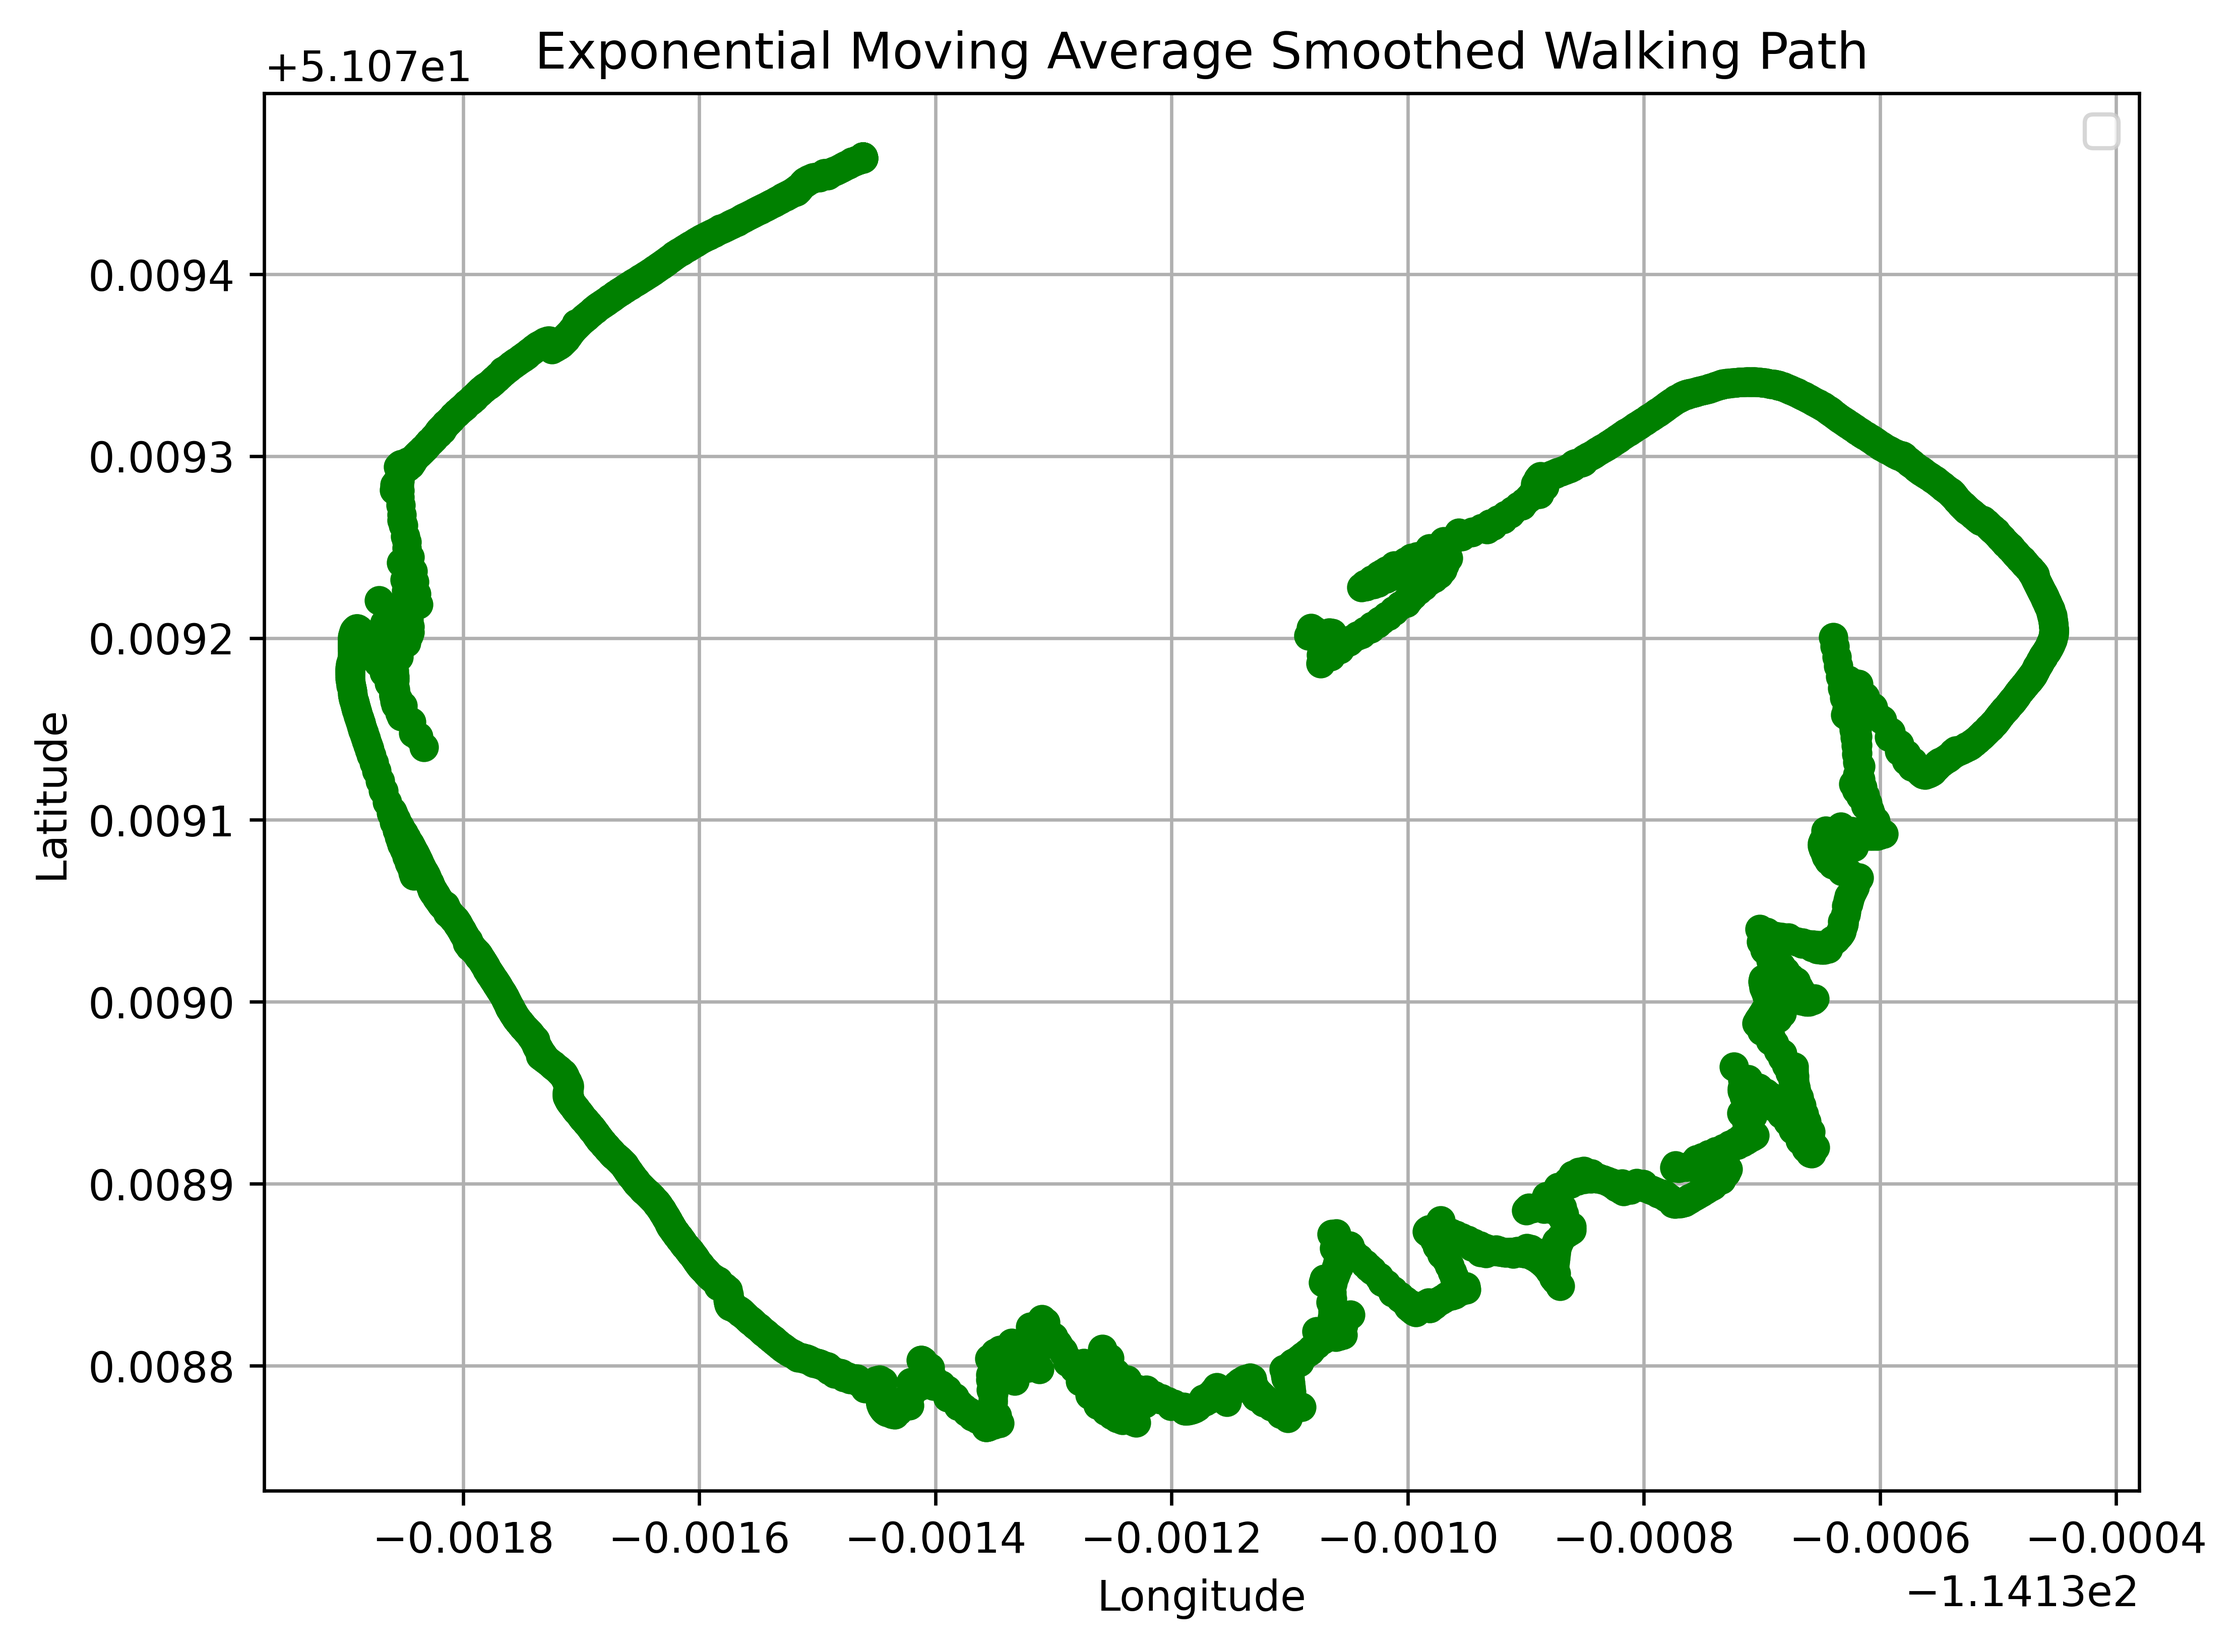
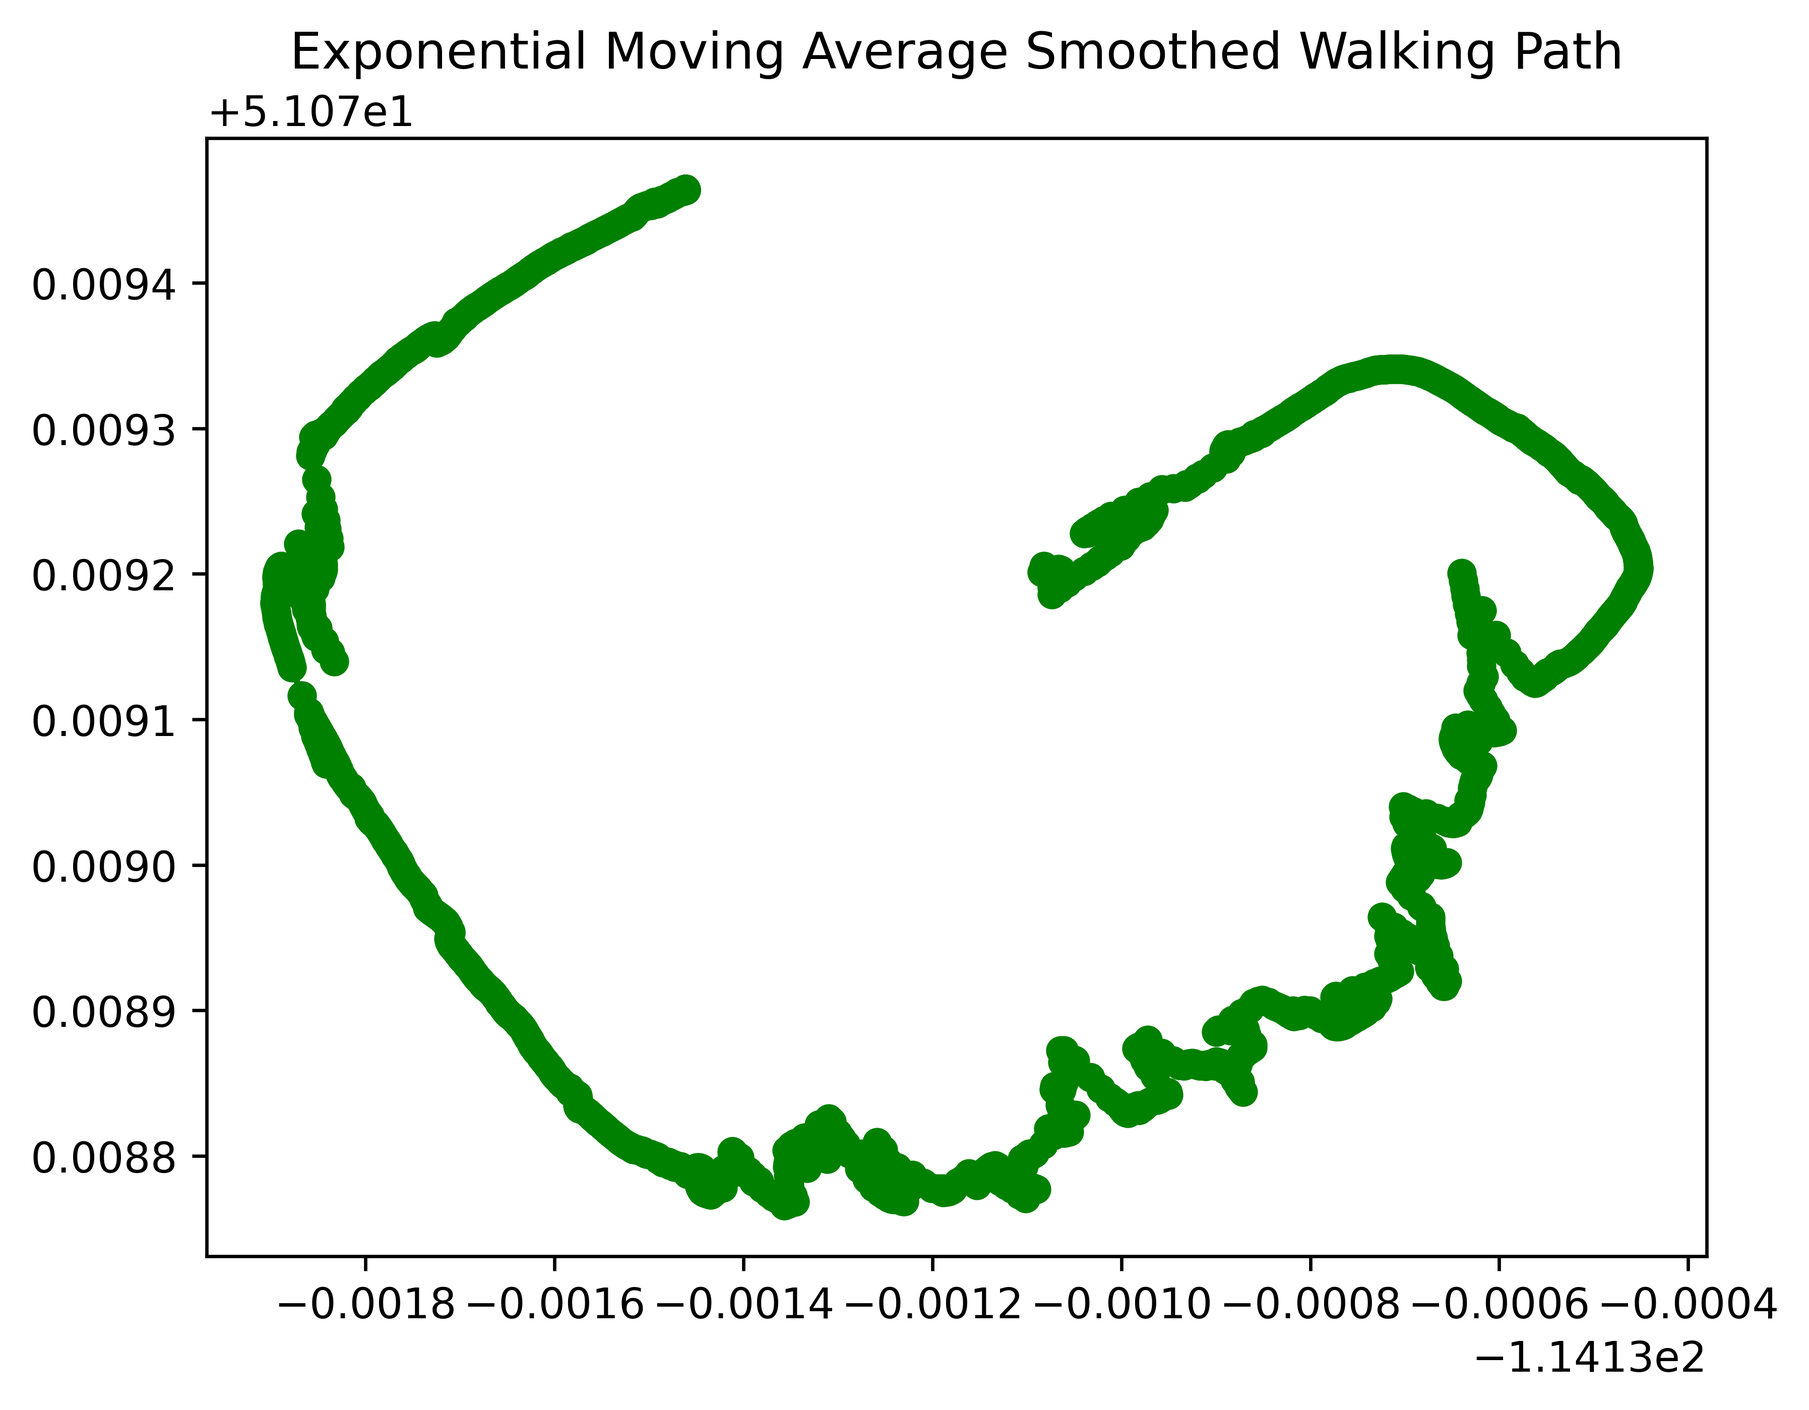
added plot clearing

diff --git a/gallery.html b/gallery.html
@@ -17,23 +17,23 @@
     <div class="container gallery-container">
       <div class="gallery">
         <div class="gallery-item">
-          <img src="images/raw_plot.png" alt="Raw Data Plot">
+          <img src="raw_path.png" alt="Raw Data Plot">
           <p>Raw data plot showing the recorded GPS path without smoothing.</p>
         </div>
         <div class="gallery-item">
-          <img src="images/moving_avg.png" alt="Moving Average Smoothing">
+          <img src="ema_smoothed_path.png" alt="Exponential Moving Average Smoothing">
           <p>Plot after applying a Moving Average filter.</p>
         </div>
         <div class="gallery-item">
-          <img src="images/gaussian.png" alt="Gaussian Smoothing">
+          <img src="gaussian_smoothed_path.png" alt="Gaussian Smoothing">
           <p>Gaussian smoothing applied to reduce noise while maintaining structure.</p>
         </div>
         <div class="gallery-item">
-          <img src="images/savitzky_golay.png" alt="Savitzky-Golay Smoothing">
+          <img src="kalman_smoothed_path.png" alt="Kalman Filter Smoothing">
           <p>Savitzky-Golay filter used to preserve sharp edges while reducing noise.</p>
         </div>
         <div class="gallery-item">
-          <img src="images/3d_plot.png" alt="3D Plot">
+          <img src="3D_mapping_plot.png" alt="3D Plot">
           <p>3D representation of the recorded route, including altitude changes.</p>
         </div>
       </div>

diff --git a/index.html b/index.html
@@ -40,7 +40,6 @@
           <div class="button-container">
             <a href="gallery.html" class="gallery-button">View Image Gallery</a>
             <a href="smoothed_walking_path.html" class="gallery-button">View Walking Path</a>
-            <a href="table.html" class="gallery-button">View Table of Average Data</a>
           </div>
         </section>
         <section>
@@ -87,6 +86,9 @@
               <li><strong>4:30pm:</strong> Began to smooth the 2D plot.</li>
               <li><strong>6:00pm:</strong> Finished the 3D plot of the route.</li>
             </ul>
+        </div>
+        <div class="button-container">
+          <a href="table.html" class="gallery-button">View Table of Average Data</a>
         </div>
       </section>
       

diff --git a/graph_smoothing.py b/graph_smoothing.py
@@ -7,19 +7,16 @@ from fileWork import *
 # Given data (converted to float)
 data = bestpos_list
 
-# Setting plot variables
-plt.figure(figsize=(8, 6))
-plt.xlabel('Longitude')
-plt.ylabel('Latitude')
-plt.legend()
-plt.grid()
-
 # Convert to numpy arrays
 latitude = np.array([float(d[0]) for d in data])
 longitude = np.array([float(d[1]) for d in data])
 altitude = np.array([float(d[2]) for d in data])
 time = np.arange(len(latitude))  # Time as index
 
+plt.title('Raw Walking Path')
+plt.plot(longitude, latitude, marker='o', linestyle='-', color='black', label="Raw Path")
+plt.savefig("raw_path.png", dpi=600, bbox_inches='tight')
+plt.gca().cla()
 
 # Apply Gaussian smoothing
 sigma = 4  # Standard deviation for smoothing
@@ -28,8 +25,9 @@ smoothed_longitude_gauss = gaussian_filter1d(longitude, sigma=sigma)
 smoothed_altitude_gauss = gaussian_filter1d(altitude, sigma=sigma)
 
 plt.title('Gaussian Smoothed Walking Path')
-plt.plot(smoothed_longitude_gauss, smoothed_latitude_gauss, marker='o', linestyle='-', color='green', label="Smoothed Path")
+plt.plot(smoothed_longitude_gauss, smoothed_latitude_gauss, marker='o', linestyle='-', color='red', label="Smoothed Path")
 plt.savefig("gaussian_smoothed_path.png", dpi=600, bbox_inches='tight')
+plt.gca().cla()
 
 #Exponential Moving Average smoothing
 def exponential_moving_average(data, alpha=0.3):
@@ -47,6 +45,7 @@ smoothed_altitude_ema = exponential_moving_average(altitude)
 plt.title('Exponential Moving Average Smoothed Walking Path')
 plt.plot(smoothed_longitude_ema, smoothed_latitude_ema, marker='o', linestyle='-', color='green', label="Smoothed Path")
 plt.savefig("ema_smoothed_path.png", dpi=600, bbox_inches='tight')
+plt.gca().cla()
 
 #Kalman Filter Smothing
 from filterpy.kalman import KalmanFilter
